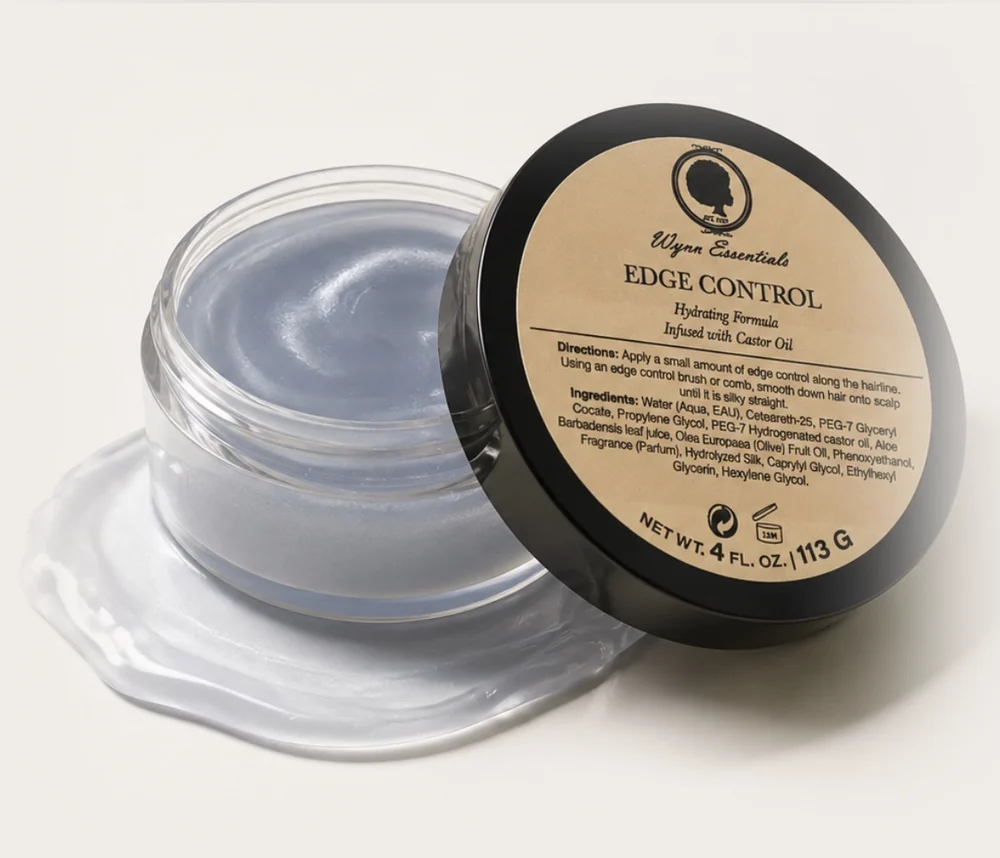
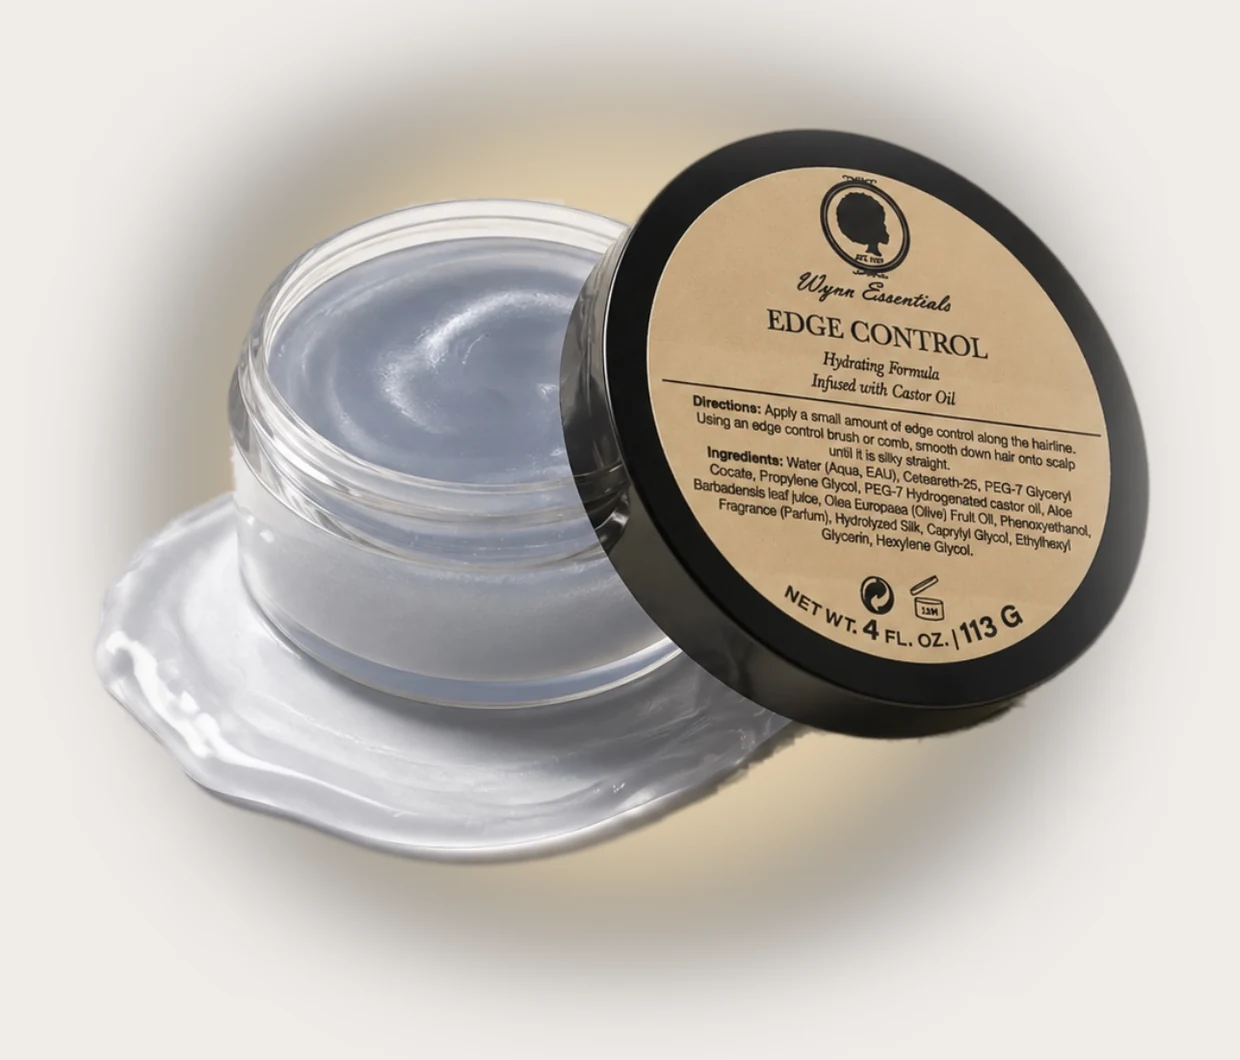
Clean up and enlarge Edge Control image in routine section
The Edge Control photo had a faint studio-backdrop seam above the jar.
Remove it and make the product a stronger focal point.

- Rebuild the image: cut the jar (and its product swirl) out of the
  original photo and composite it onto a fresh clean background with a
  soft sand "spotlight" disc behind it. This eliminates the backdrop
  seam entirely and adds an intentional design element, while the edges
  still feather into the section background (#efebe7).
- Enlarge the product: raise the image max-width (560px -> 720px), give
  the image column more room (grid 0.9fr / 1.1fr), and update the
  intrinsic dimensions to 1240x1060.

Claude-Session: https://claude.ai/code/session_01CbnvEYzHkLJYUMQDiX78HP

diff --git a/app/globals.css b/app/globals.css
@@ -7,7 +7,7 @@
 .bag-button{border:0;background:none;cursor:pointer;line-height:0;display:inline-flex;align-items:center}.bag-icon-wrap{position:relative;display:inline-block;line-height:0}.bag-icon{height:34px;width:auto;display:block;object-fit:contain}.bag-count{position:absolute;top:-6px;right:-9px;min-width:17px;height:17px;padding:0 4px;border-radius:999px;background:var(--kraft-dark);color:#fff;font-size:10px;font-weight:800;display:flex;align-items:center;justify-content:center;line-height:1}
 .section{padding:clamp(72px,9vw,140px) clamp(20px,5vw,80px)}.eyebrow{font-size:10px!important;letter-spacing:.18em;font-weight:800;text-transform:uppercase;color:var(--muted)}h1,h2{font-family:var(--font-display),Georgia,serif;font-weight:400;letter-spacing:-.035em;margin:0}h2{font-size:clamp(48px,6vw,94px);line-height:.94}h2 em{font-weight:400;color:var(--kraft-dark)}p{line-height:1.7}.button,.outline-button{min-height:48px;padding:14px 22px;border:1px solid var(--black);display:inline-flex;align-items:center;justify-content:center;text-decoration:none;font-weight:800;font-size:12px;letter-spacing:.08em;text-transform:uppercase}.button{background:var(--kraft);border-color:var(--kraft)}.button:hover{background:var(--kraft-dark)}.outline-button{background:transparent}.outline-button:hover{background:var(--black);color:#fff}.button:disabled{opacity:.5;cursor:not-allowed}.full{width:100%}.text-button{border:0;background:none;text-decoration:underline;text-underline-offset:4px}.actions{display:flex;flex-wrap:wrap;gap:12px}
 .hero{display:grid;grid-template-columns:minmax(0,46%) minmax(0,54%);min-height:calc(100svh - 128px)}.hero-copy{min-width:0;padding:clamp(60px,8vw,130px) clamp(22px,5vw,80px);display:flex;flex-direction:column;justify-content:center;align-items:flex-start}.hero h1{max-width:100%;font-size:clamp(58px,5.8vw,94px);line-height:.9;margin:22px 0 30px}.hero-copy>p:not(.eyebrow){max-width:580px;font-size:17px}.hero small{margin-top:30px;color:var(--muted)}.hero-image{min-width:0;min-height:680px;background:#4076b5;overflow:hidden}.hero-image img,.hero-image video{display:block;width:100%;height:100%;object-fit:contain;object-position:50% 50%}
-.statement{background:#efebe7;display:grid;grid-template-columns:1fr 1fr;gap:clamp(32px,5vw,80px);align-items:center;min-height:640px}.statement-copy{max-width:600px;justify-self:end}.statement h2{font-size:clamp(44px,4.6vw,76px)}.statement-copy .eyebrow{margin-bottom:18px}.statement-copy p:not(.eyebrow){max-width:540px;font-size:18px;margin:30px 0 34px}.statement-product{justify-self:center;width:100%}.statement-product img{display:block;width:100%;max-width:560px;height:auto;margin:0 auto;animation:wynn-bob 6s ease-in-out infinite;will-change:transform}@keyframes wynn-bob{0%,100%{transform:translateY(0)}50%{transform:translateY(-12px)}}@media(prefers-reduced-motion:reduce){.statement-product img{animation:none}}.section-heading{display:flex;justify-content:space-between;align-items:flex-end;margin-bottom:55px}.section-heading .eyebrow{align-self:flex-start}.shop{background:var(--soft)}.filters{display:flex;gap:8px;flex-wrap:wrap;margin-bottom:38px}.filters button{padding:10px 18px;border:1px solid var(--sand);background:#fff}.filters button[aria-pressed=true]{background:var(--kraft)}.product-grid{display:grid;grid-template-columns:repeat(3,1fr);gap:44px 20px}.product-card>div:last-child{display:flex;flex-direction:column;align-items:flex-start}.art-button{position:relative;width:100%;border:0;background:var(--linen);padding:0}
+.statement{background:#efebe7;display:grid;grid-template-columns:minmax(0,0.9fr) minmax(0,1.1fr);gap:clamp(28px,4vw,64px);align-items:center;min-height:640px}.statement-copy{max-width:560px;justify-self:end}.statement h2{font-size:clamp(44px,4.6vw,76px)}.statement-copy .eyebrow{margin-bottom:18px}.statement-copy p:not(.eyebrow){max-width:540px;font-size:18px;margin:30px 0 34px}.statement-product{justify-self:center;width:100%}.statement-product img{display:block;width:100%;max-width:720px;height:auto;margin:0 auto;animation:wynn-bob 6s ease-in-out infinite;will-change:transform}@keyframes wynn-bob{0%,100%{transform:translateY(0)}50%{transform:translateY(-12px)}}@media(prefers-reduced-motion:reduce){.statement-product img{animation:none}}.section-heading{display:flex;justify-content:space-between;align-items:flex-end;margin-bottom:55px}.section-heading .eyebrow{align-self:flex-start}.shop{background:var(--soft)}.filters{display:flex;gap:8px;flex-wrap:wrap;margin-bottom:38px}.filters button{padding:10px 18px;border:1px solid var(--sand);background:#fff}.filters button[aria-pressed=true]{background:var(--kraft)}.product-grid{display:grid;grid-template-columns:repeat(3,1fr);gap:44px 20px}.product-card>div:last-child{display:flex;flex-direction:column;align-items:flex-start}.art-button{position:relative;width:100%;border:0;background:var(--linen);padding:0}
 .sold-out-badge{position:absolute;top:14px;left:14px;z-index:2;padding:7px 12px;background:var(--black);color:#fff;font-size:10px;font-weight:800;letter-spacing:.14em;text-transform:uppercase}
 .product-card.is-sold-out .art-button img,.product-card.is-sold-out .product-art{opacity:.72}
 .sold-out-cta{color:var(--kraft-dark);border-color:var(--kraft-dark)}

diff --git a/app/WynnShop.tsx b/app/WynnShop.tsx
@@ -739,7 +739,7 @@ export default function WynnShop() {
     <Header count={cart.reduce((s,i)=>s+i.quantity,0)} wishCount={wishlist.length} openCart={()=>setCartOpen(true)} openSearch={()=>setSearchOpen(true)} openWishlist={()=>setWishOpen(true)} viewInvite={()=>setInvitation("manual")}/>
     <main id="main">
       <section className="hero"><div className="hero-copy"><p className="eyebrow">TEXTURED-HAIR WELLNESS, MADE INTENTIONAL</p><h1 id="main-heading" tabIndex={-1}>Healthy Hair<br />Is a Practice.</h1><p>Moisture, strength, scalp, and styling essentials created for textured hair and the routines that keep it healthy.</p><div className="actions"><button className="button" onClick={()=>scroll("shop")}>Shop the Essentials</button><button className="outline-button" onClick={()=>scroll("routine-finder")}>Find My Routine</button></div><small>Made for curls, coils, braids, locs, and protective styles.</small></div><div className="hero-image"><img src="/hero-nourish-sky-full.webp" width="1200" height="1600" alt="Model holding eight Wynn Essentials Nourish boxes against a bright blue sky" fetchPriority="high"/></div></section>
-      <section className="statement section"><div className="statement-copy"><p className="eyebrow">BUILD YOUR ROUTINE</p><h2>Hair care for every part<br /><em>of your routine.</em></h2><p>Wynn Essentials offers gentle shampoo, moisture-rich conditioners, daily hydration, scalp and sealing oils, styling cream, edge control, satin accessories, and premium human hair for protective styles. Choose the products that fit your hair and build a routine around what it needs.</p><a href="#shop" className="button">Explore the Collection</a></div><div className="statement-product"><img src="/collections/edge-control-routine.webp" alt="Wynn Essentials Edge Control hydrating formula, open jar with a swirl of periwinkle styling cream" width="1000" height="858" loading="lazy"/></div></section>
+      <section className="statement section"><div className="statement-copy"><p className="eyebrow">BUILD YOUR ROUTINE</p><h2>Hair care for every part<br /><em>of your routine.</em></h2><p>Wynn Essentials offers gentle shampoo, moisture-rich conditioners, daily hydration, scalp and sealing oils, styling cream, edge control, satin accessories, and premium human hair for protective styles. Choose the products that fit your hair and build a routine around what it needs.</p><a href="#shop" className="button">Explore the Collection</a></div><div className="statement-product"><img src="/collections/edge-control-routine.webp" alt="Wynn Essentials Edge Control hydrating formula, open jar with a swirl of periwinkle styling cream" width="1240" height="1060" loading="lazy"/></div></section>
       <section id="best-sellers" className="editorial-shop section" aria-labelledby="editorial-favorites"><div className="section-heading"><div><p className="eyebrow">BEST SELLERS</p><h2 id="editorial-favorites">Colorful Care.<br/>Intentional Results.</h2></div><p>Explore customer favorites designed to cleanse, condition, hydrate, and define textured hair.</p></div><div className="editorial-grid">{[
         ["/editorial/thairap-lavender.png","ThairaP","Moisture Styling Cream","Four ThairaP styling cream jars with lavender and aloe"],
         ["/editorial/uplyft-model.jpeg","Uplyft","Moisture Rich Conditioner","Model holding Uplyft Moisture Rich Conditioner"],
